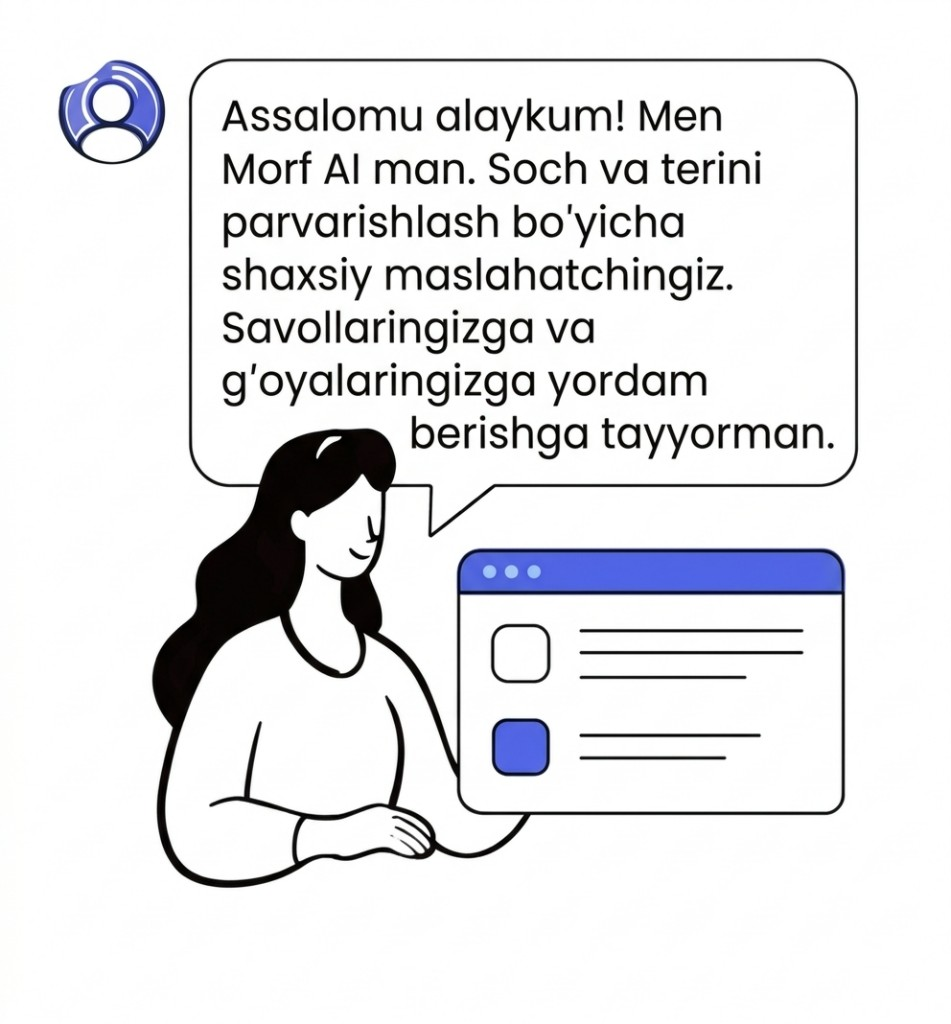
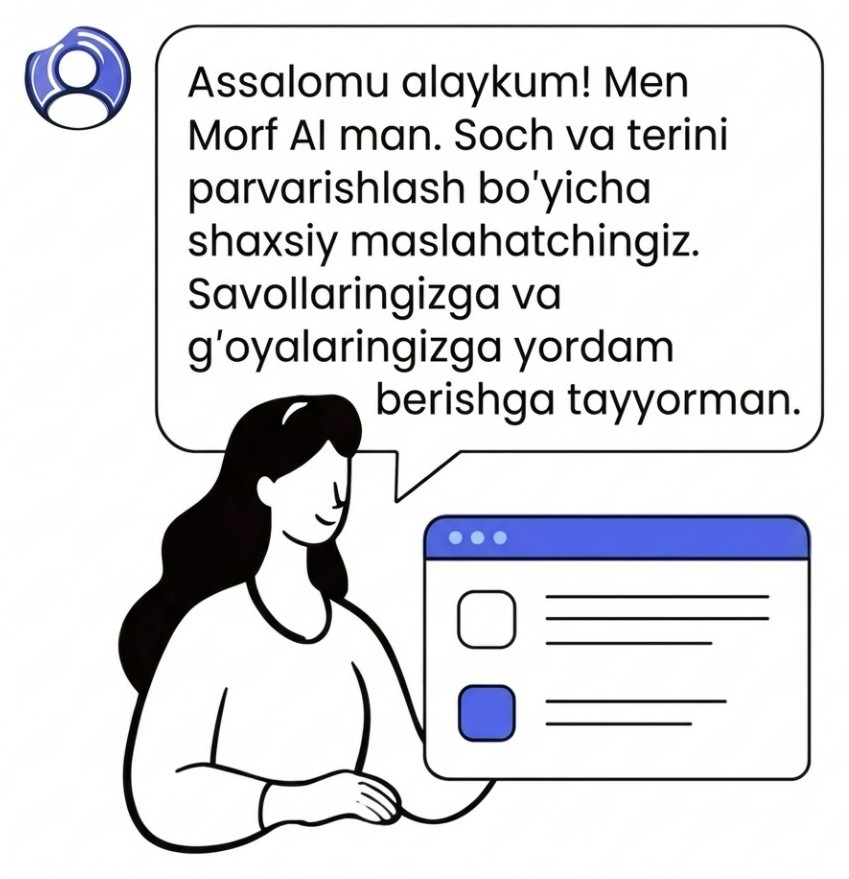
Fix onboarding Continue taps and enlarge the slide artwork.

Changed region(s): [[0.0306, 0.0, 0.98, 0.9829]]

diff --git a/apps/mobile/src/screens/onboarding/FeatureOnboardingCarousel.tsx b/apps/mobile/src/screens/onboarding/FeatureOnboardingCarousel.tsx
@@ -77,8 +77,8 @@ export function FeatureOnboardingCarousel({ onFinish }: Props) {
     [t],
   );
 
-  /** Barcha slaydlarda bir xil kvadrat hero va bir xil matn qatori */
-  const heroSize = Math.min(winW - scale(56), Math.min(Math.max(winH * 0.4, 220), 320));
+  const heroSize = Math.min(winW, Math.round(winH * 0.54));
+  const heroTop = Math.round(winH * 0.14);
   const titleH = Math.round(fontSize(16) * 1.3);
   const subLine = Math.round(fontSize(12) * 1.35);
   const subH = subLine * 2;
@@ -130,7 +130,7 @@ export function FeatureOnboardingCarousel({ onFinish }: Props) {
         }}
         getItemLayout={(_, i) => ({ length: winW, offset: winW * i, index: i })}
         renderItem={({ item }) => (
-          <View style={[styles.page, { width: winW }]}>
+          <View style={[styles.page, { width: winW, paddingTop: heroTop }]}>
             <View style={[styles.heroWrap, { width: heroSize, height: heroSize }]}>
               <Image
                 source={item.image}
@@ -173,8 +173,7 @@ export function FeatureOnboardingCarousel({ onFinish }: Props) {
 const styles = StyleSheet.create({
   root: { flex: 1, backgroundColor: "#FFFFFF" },
   page: {
-    paddingHorizontal: scale(28),
-    paddingTop: verticalScale(4),
+    paddingHorizontal: scale(8),
     flex: 1,
     alignItems: "center",
     justifyContent: "flex-start",

diff --git a/apps/mobile/src/lib/web-style-compat.ts b/apps/mobile/src/lib/web-style-compat.ts
@@ -109,24 +109,10 @@ function patchJsx(runtime: JsxRuntime | null) {
   const wrap = (orig: JsxFn | undefined): JsxFn | undefined => {
     if (!orig) return orig;
     return (type, props, key) => {
-      if (!props || (props.pointerEvents == null && !styleNeedsMigrate(props.style))) {
+      if (!props || !styleNeedsMigrate(props.style)) {
         return orig(type, props, key);
       }
-      const next: StyleRecord = { ...props };
-      if (next.pointerEvents != null) {
-        const pointerEvents = next.pointerEvents;
-        delete next.pointerEvents;
-        const extra = { pointerEvents };
-        next.style =
-          next.style == null
-            ? extra
-            : Array.isArray(next.style)
-              ? [...next.style, extra]
-              : [next.style, extra];
-      }
-      if (styleNeedsMigrate(next.style)) {
-        next.style = migrateStyleProp(next.style);
-      }
+      const next: StyleRecord = { ...props, style: migrateStyleProp(props.style) };
       return orig(type, next, key);
     };
   };

diff --git a/apps/mobile/src/components/ui/ToastProvider.tsx b/apps/mobile/src/components/ui/ToastProvider.tsx
@@ -61,7 +61,7 @@ export function ToastProvider({ children }: { children: ReactNode }) {
     <ToastContext.Provider value={value}>
       {children}
       <View
-        pointerEvents="box-none"
+        pointerEvents={toast ? "box-none" : "none"}
         style={[styles.host, { paddingTop: safeTop(insets.top, 0) + 6 }]}
       >
         {toast ? (
